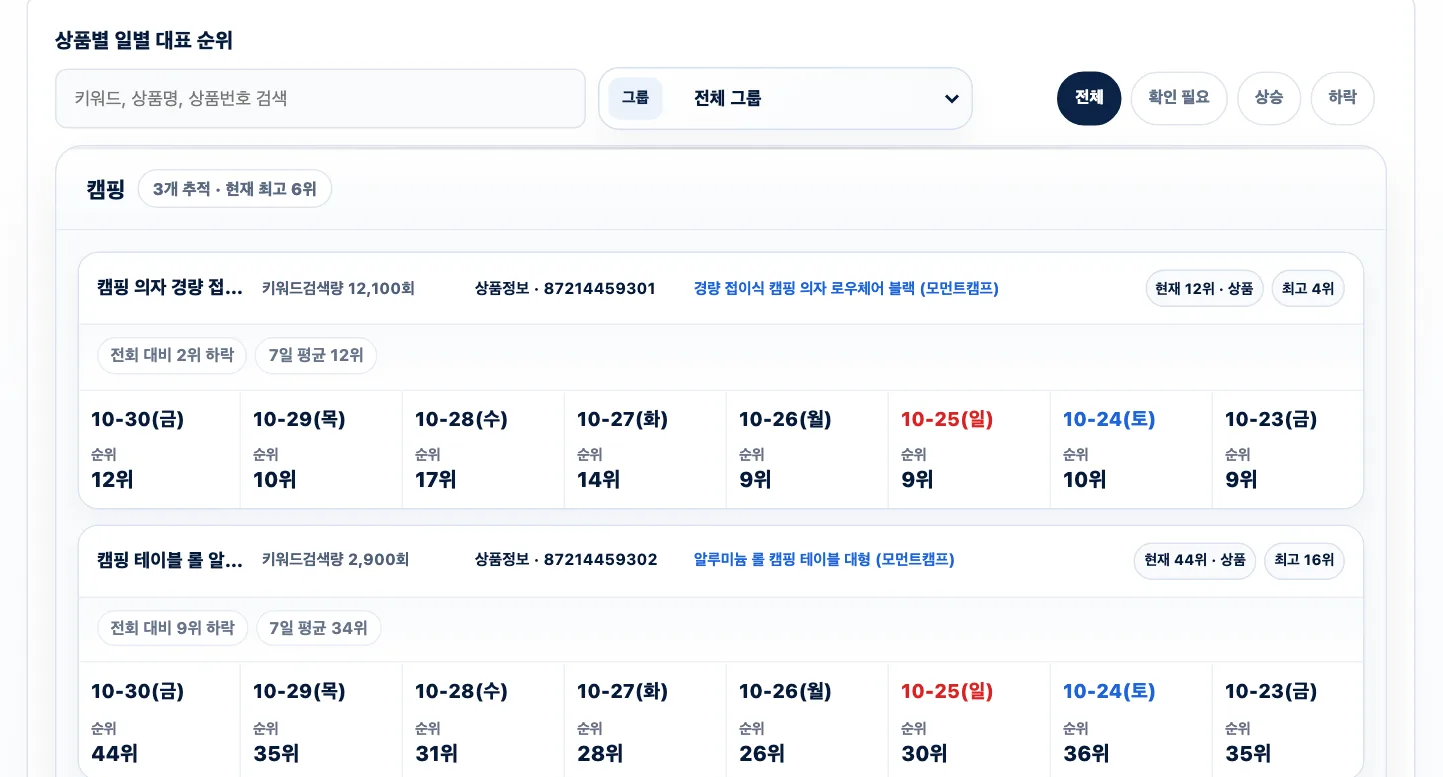
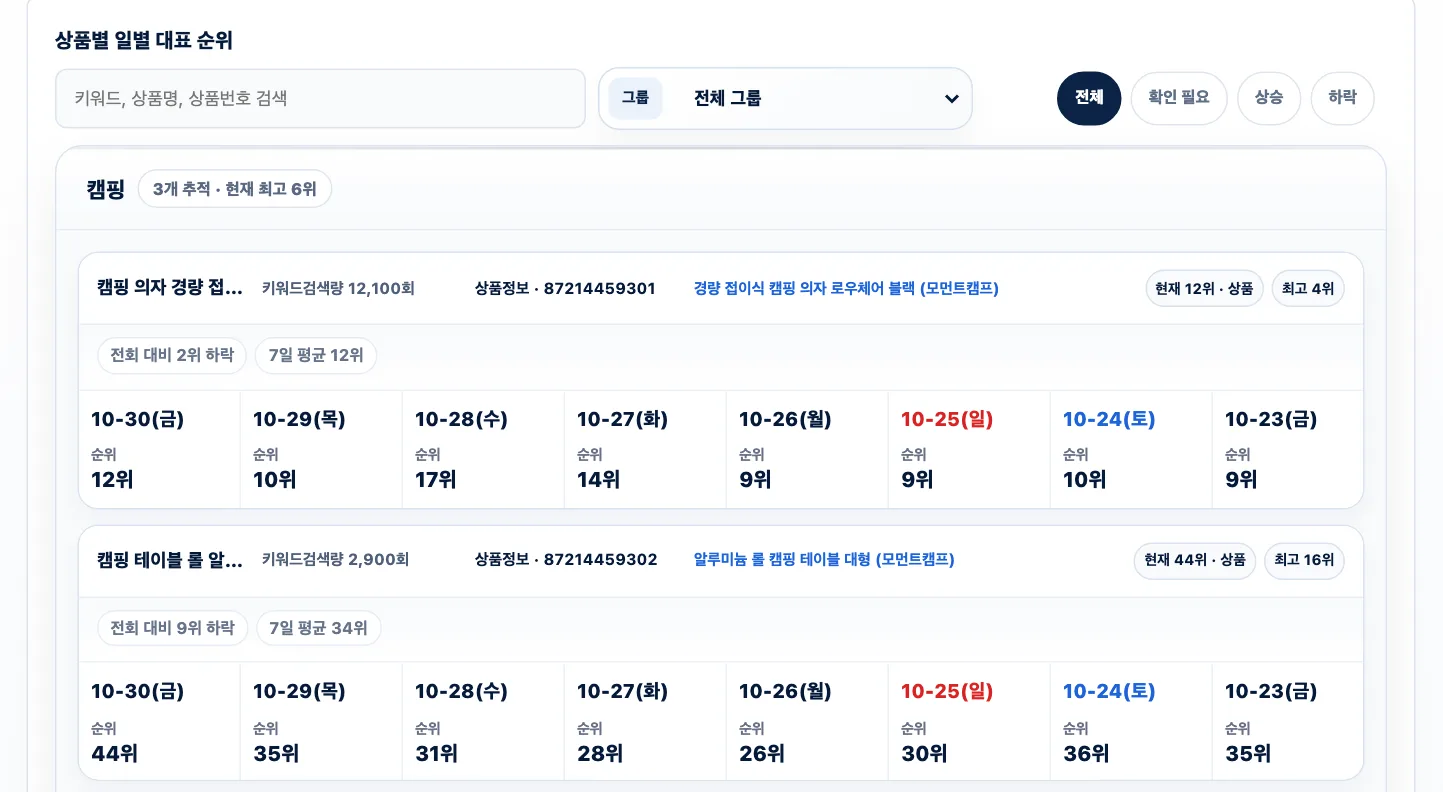
fix(seo): 설명 페이지 직접 검토 반영 — 광고주 화면 예시·검색 의도·반복·쓰임새
- Codex 최종 검토 반영: 순위 확인 횟수에 '보통'과 접속 제한 시 지연 안내, 도입 항목 '상품 원부'→'상품'
- 키워드: 월 검색수 범위/확인 필요 표시, 광고 노출 깊이 풀이·예상 비용 미제공 가능, 기기 비중 대체 기준, 여러 키워드는 첫 키워드만 전체 지표, 끝 구역 '하루 5회' 반복 제거
- 순위 예시 그림 다시 찍음: 둘째 카드 아래 테두리 잘림 고침(1443x792, 휴대폰 588x1168), width·height 맞춤

diff --git a/src/pages/guide-naver-keyword-search-volume.html b/src/pages/guide-naver-keyword-search-volume.html
@@ -118,7 +118,7 @@
           <article class="mi-card">
             <span class="mi-fact-tag">월 검색수</span>
             <h3>한 달에 얼마나 검색하나</h3>
-            <p>검색광고 키워드도구 기준으로 최근 30일 PC·모바일 검색수를 합쳐 보여 줍니다.</p>
+            <p>검색광고 키워드도구 기준으로 최근 30일 PC·모바일 검색수를 합쳐 보여 줍니다. 검색이 아주 적은 키워드는 정확한 숫자 대신 범위로, 검색광고에 똑같은 키워드가 없으면 '확인 필요'로 표시합니다.</p>
           </article>
           <article class="mi-card">
             <span class="mi-fact-tag">12개월 추이</span>
@@ -138,7 +138,7 @@
           <article class="mi-card">
             <span class="mi-fact-tag">광고 비용</span>
             <h3>광고를 건다면 얼마인가</h3>
-            <p>1위 노출 입찰가(모바일·클릭당), 한 달 예상 비용, 광고 노출 깊이를 검색광고 추정치로 보여 줍니다.</p>
+            <p>1위 노출 입찰가(모바일·클릭당), 한 달 예상 비용, 광고 노출 깊이(검색 결과 상단에 붙는 광고 수)를 검색광고 추정치로 보여 줍니다. 예상 비용은 키워드에 따라 제공되지 않을 수 있습니다.</p>
           </article>
           <article class="mi-card">
             <span class="mi-fact-tag">비교 · 연관 · 콘텐츠</span>
@@ -237,7 +237,7 @@
           <details open itemprop="mainEntity" itemscope itemtype="https://schema.org/Question">
             <summary itemprop="name">검색량 데이터는 어디서 가져오나요?</summary>
             <div itemprop="acceptedAnswer" itemscope itemtype="https://schema.org/Answer">
-              <p itemprop="text">네이버 공식 데이터입니다. 월 검색수·클릭·입찰가는 네이버 검색광고(키워드도구·입찰가 추정), 검색 추이와 월별·요일별 비율은 네이버 데이터랩 검색어 트렌드, 연령·성별·기기별 쇼핑 클릭 비중은 데이터랩 쇼핑인사이트, 블로그·카페·지식iN 글 수는 네이버 검색 API에서 가져옵니다.</p>
+              <p itemprop="text">네이버 공식 데이터입니다. 월 검색수·클릭·입찰가는 네이버 검색광고(키워드도구·입찰가 추정), 검색 추이와 월별·요일별 비율은 네이버 데이터랩 검색어 트렌드, 연령·성별·기기별 쇼핑 클릭 비중은 데이터랩 쇼핑인사이트(기기 자료가 없으면 검색광고의 PC·모바일 검색수 비중), 블로그·카페·지식iN 글 수는 네이버 검색 API에서 가져옵니다.</p>
             </div>
           </details>
           <details open itemprop="mainEntity" itemscope itemtype="https://schema.org/Question">
@@ -255,7 +255,7 @@
           <details open itemprop="mainEntity" itemscope itemtype="https://schema.org/Question">
             <summary itemprop="name">여러 키워드를 한 번에 비교할 수 있나요?</summary>
             <div itemprop="acceptedAnswer" itemscope itemtype="https://schema.org/Answer">
-              <p itemprop="text">네. 쉼표로 나눠 최대 5개까지 넣으면 같은 기준으로 나란히 비교합니다.</p>
+              <p itemprop="text">네. 쉼표로 나눠 최대 5개까지 넣으면 같은 기준으로 나란히 비교합니다. 첫 키워드는 전체 지표로, 나머지는 비교 표와 시즌 캘린더로 보여 줍니다.</p>
             </div>
           </details>
           <details open itemprop="mainEntity" itemscope itemtype="https://schema.org/Question">
@@ -283,7 +283,7 @@
           <div>
             <span class="mi-kicker">시작</span>
             <h2>키워드 조회는 가입하면 바로.</h2>
-            <p>구글 계정으로 가입하면 키워드 조회를 하루 5회 무료로 쓸 수 있습니다. 30일 순위 추적과 전체 기능은 도입 후 열립니다. 문의는 카카오 채널로 받습니다.</p>
+            <p>후보 키워드를 넣고 월 검색수·시즌·예상 광고비부터 확인해 보세요. 30일 순위 추적 도입은 카카오 채널로 문의해 주세요.</p>
           </div>
           <div class="mi-inline-actions">
             <a class="mi-button primary" href="/client?signup=1">무료 체험 가입</a>

diff --git a/src/pages/guide-naver-shopping-rank-tracking.html b/src/pages/guide-naver-shopping-rank-tracking.html
@@ -175,8 +175,8 @@
         <figure class="mi-shot">
           <div class="mi-shot-bar"><span class="mi-shot-label">예시 화면</span><span>가짜 데이터 · 실제 고객 정보 미사용</span></div>
           <picture>
-            <source media="(max-width: 640px)" srcset="/guide/img/rank-tracking-example-mobile.webp" width="588" height="1148" />
-            <img src="/guide/img/rank-tracking-example.webp" width="1443" height="777" loading="lazy" decoding="async" alt="예시 화면: 광고주 화면의 30일 순위판. 그룹 아래 상품 카드마다 현재 순위, 최고 순위, 전회 대비 변동, 7일 평균과 날짜별 순위가 보입니다" />
+            <source media="(max-width: 640px)" srcset="/guide/img/rank-tracking-example-mobile.webp" width="588" height="1168" />
+            <img src="/guide/img/rank-tracking-example.webp" width="1443" height="792" loading="lazy" decoding="async" alt="예시 화면: 광고주 화면의 30일 순위판. 그룹 아래 상품 카드마다 현재 순위, 최고 순위, 전회 대비 변동, 7일 평균과 날짜별 순위가 보입니다" />
           </picture>
           <figcaption>예시 화면 · 상품 카드마다 현재 순위·최고 순위·전회 대비 변동, 아래에 날짜별 순위가 이어집니다. 휴대폰에서는 날짜 칸을 옆으로 밀어 지난 날짜를 봅니다.</figcaption>
         </figure>
@@ -206,7 +206,7 @@
             <h3>도입 후 <span class="mi-badge">광고주 전용</span></h3>
             <ul>
               <li>카카오 채널로 판매 채널과 추적할 키워드 수를 알려 주시면 됩니다</li>
-              <li>광고주 전용 접속 코드 발급, 운영팀이 키워드와 상품 원부를 먼저 등록</li>
+              <li>광고주 전용 접속 코드 발급, 운영팀이 키워드와 상품을 먼저 등록</li>
               <li>30일 순위 추적과 내 키워드 뉴스가 열립니다</li>
             </ul>
             <div class="mi-inline-actions">
@@ -233,7 +233,7 @@
           <details open itemprop="mainEntity" itemscope itemtype="https://schema.org/Question">
             <summary itemprop="name">하루에 몇 번 확인하나요? 정해진 시각이 있나요?</summary>
             <div itemprop="acceptedAnswer" itemscope itemtype="https://schema.org/Answer">
-              <p itemprop="text">하루 2~3회 확인합니다. 정해진 시각이 아니라 차례가 돌아오는 대로 하나씩 기록합니다. 한 번 확인하는 것을 회차라고 하는데, 확인이 실패한 회차는 기록하지 않고 마지막으로 확인된 순위를 그대로 둡니다.</p>
+              <p itemprop="text">보통 하루 2~3회 확인합니다. 정해진 시각이 아니라 차례가 돌아오는 대로 하나씩 기록하며, 네이버 접속이 잠시 제한되면 늦어질 수 있습니다. 한 번 확인하는 것을 회차라고 하는데, 확인이 실패한 회차는 기록하지 않고 마지막으로 확인된 순위를 그대로 둡니다.</p>
             </div>
           </details>
           <details open itemprop="mainEntity" itemscope itemtype="https://schema.org/Question">
